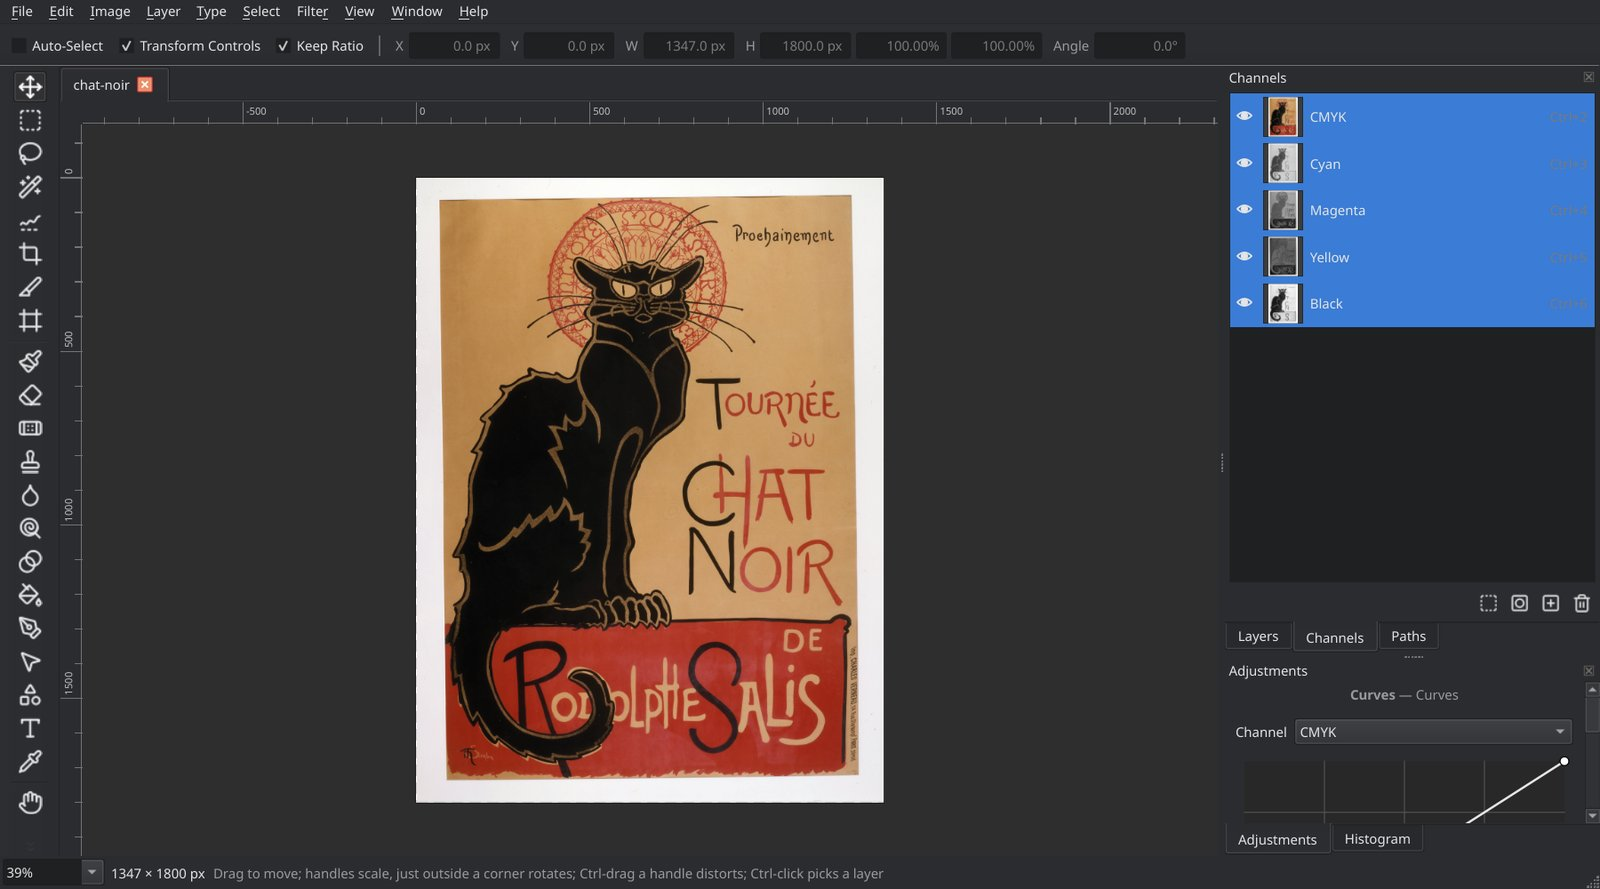
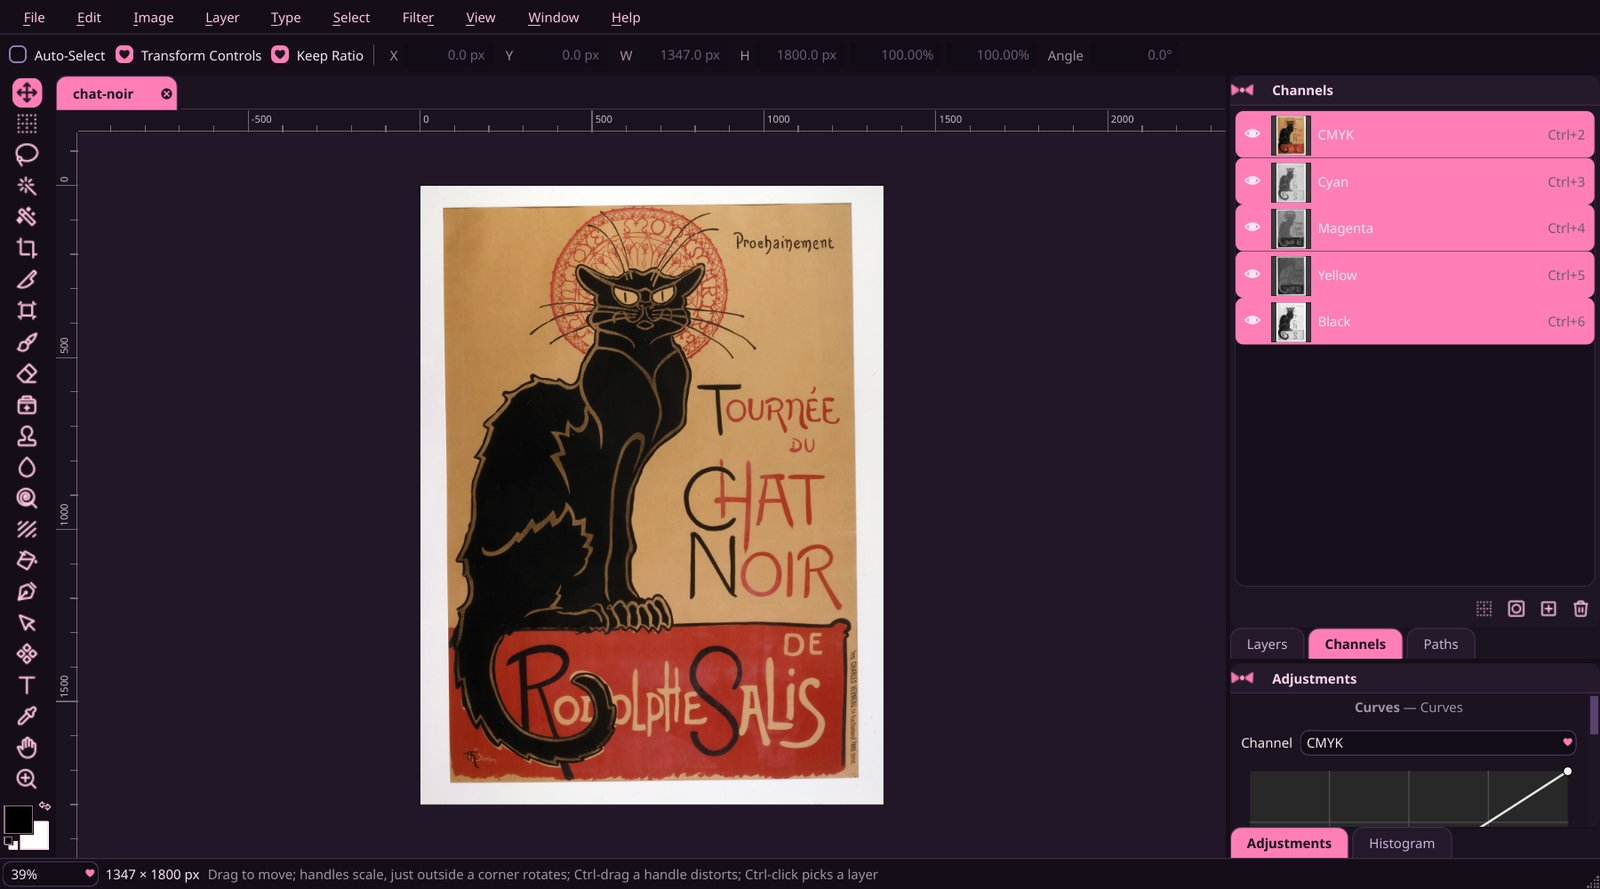
README screenshots in Goth Kitty; the README and features list say how to change the look
Every README screenshot is retaken in the Goth Kitty theme with the same subjects and
framing. Get started notes that Goth Kitty is the default and that Edit > Preferences >
Theme offers System, Dark and Light; docs/features.md describes the theme and the MingCute
icons (both in English and Japanese).

diff --git a/README.md b/README.md
@@ -285,6 +285,9 @@ profile. The G'MIC filters need `gmic.exe` on `PATH`.
   click mode downloads its own model from the options bar.
 - The interface is in **English and Japanese**: it follows the desktop's language, and Edit › Preferences › Language
   picks one (at the next launch).
+- It dresses in **Goth Kitty** out of the box, an original kawaii-goth look: plum-black panels, candy pink and lavender,
+  heart-shaped slider handles and a bow on every panel title. Prefer something plainer? Edit › Preferences › Theme
+  also offers System, Dark and Light, and switches at once.
 - NekoPhoto began as a Linux port of [Compositor](https://github.com/robbietilton/Compositor) for macOS and was called
   compositor-linux until 1.0; your settings, brushes and downloaded model move over by themselves. `.comp` project
   folders from older versions and the Mac app still open and save as they are.
@@ -608,6 +611,9 @@ curl -fsSL https://raw.githubusercontent.com/vomitselfie/nekophoto/main/tools/in
   クリックで選ぶモードは、オプションバーから専用のモデルをダウンロードします。
 - 画面表示は **日本語と英語** に対応しています。デスクトップの言語に合わせて切り替わり、編集 › 環境設定 › 言語 で
   選ぶこともできます(次回の起動から反映されます)。
+- 初期設定の見た目は **ゴスキティ**。プラム色がかった黒のパネルにキャンディピンクとラベンダー、ハート型のスライダー、
+  パネル名にはリボンを添えた、オリジナルのかわいいゴス系テーマです。落ち着いた見た目がよければ、編集 › 環境設定 › テーマ
+  で システム・ダーク・ライト にすぐ切り替えられます。
 - NekoPhoto は macOS 版 [Compositor](https://github.com/robbietilton/Compositor) の Linux 移植として始まり、バージョン 1.0
   までは compositor-linux という名前でした。設定・ブラシ・ダウンロード済みのモデルは自動で引き継がれます。以前のバージョンや
   Mac 版の `.comp` プロジェクトフォルダーも、そのまま開いて保存できます。
